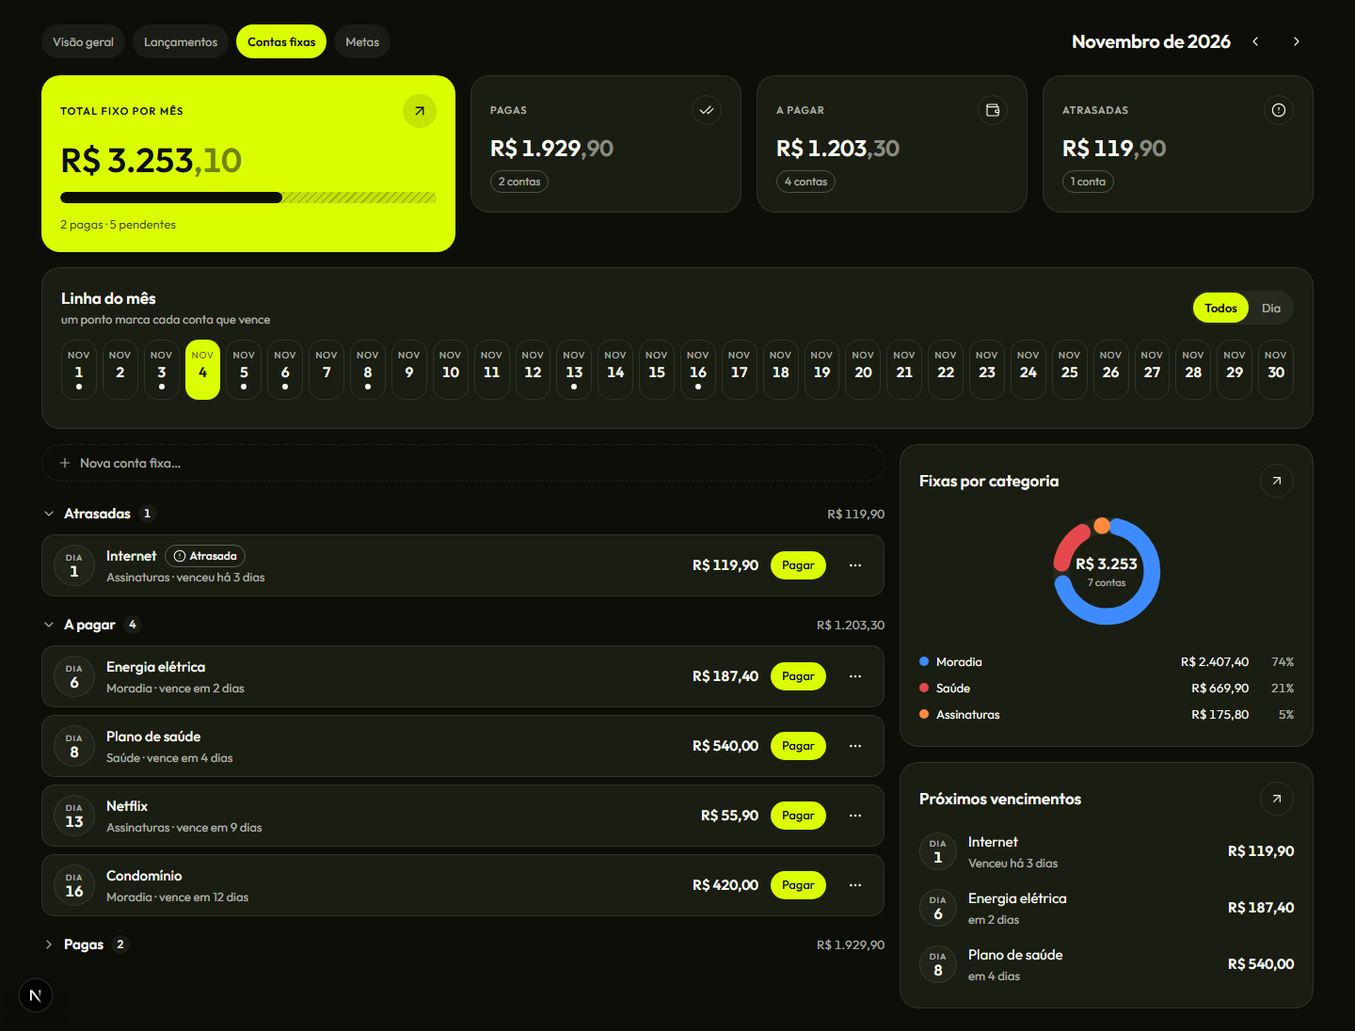
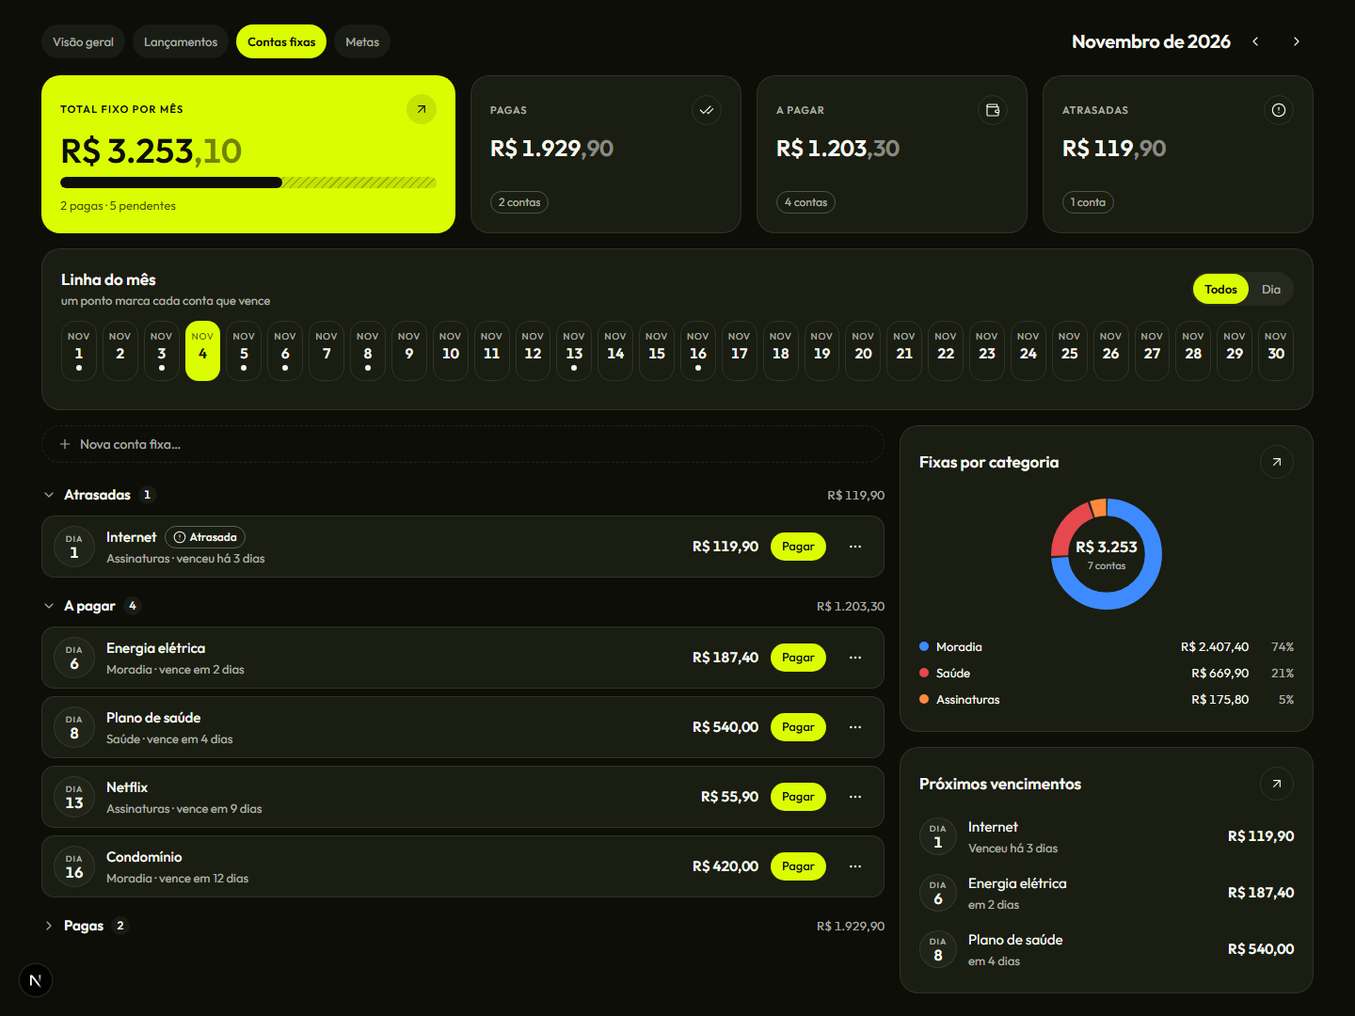
Finanças: e2e for toolbar scroll row, donut geometry, equal top cards, Nova meta pill, goal cards and account management; Ver todas for more than four wallets; short hero label on phones; refreshed screenshots

diff --git a/tests/e2e/financas-bento.spec.ts b/tests/e2e/financas-bento.spec.ts
@@ -300,7 +300,7 @@ test.describe("desktop 1440", () => {
     expect(await computed(featured, "background-color")).not.toMatch(/rgba\(0, 0, 0, 0\)/)
     await expect(featured.getByRole("progressbar")).toHaveAttribute("aria-valuenow", /\d+/)
     await expect(featured.locator("[data-sparkline]")).toHaveCount(0)
-    await expect(page.locator("[data-goal][data-done=false]")).toHaveCount(2)
+    await expect(page.locator("[data-goal][data-done=false]")).toHaveCount(3)
     // Featured Guardar: the sparkline appears (there is history now) and goes with Desfazer.
     await featured.getByRole("button", { name: "Guardar" }).click()
     await page.getByRole("dialog").getByLabel("Valor", { exact: true }).fill("100")
@@ -316,14 +316,14 @@ test.describe("desktop 1440", () => {
     await expect(done.getByRole("button", { name: "Guardar" })).toHaveCount(0)
     await expect(done.locator("[data-goal] [data-category-circle], [data-goal] svg:not([role=progressbar] svg)")).toHaveCount(0)
     // Create, edit.
-    await page.getByText("Nova meta…").click()
+    await page.getByRole("button", { name: "Nova meta" }).click()
     const dialog = page.getByRole("dialog")
     await dialog.getByLabel("Nome").fill("Moto nova")
     await dialog.getByLabel("Valor da meta").fill("9000")
     await dialog.getByRole("radio", { name: "Carro" }).click()
     await dialog.getByRole("button", { name: "Criar meta" }).click()
     const goal = page.locator("[data-goal]").filter({ hasText: "Moto nova" })
-    await expect(goal).toContainText("R$ 0,00 de R$ 9.000,00")
+    await expect(goal).toContainText(/R\$ 0,00\s*de R\$ 9\.000,00/)
     await goal.getByRole("button", { name: /^Ações de/ }).click()
     await page.getByRole("menuitem", { name: "Editar" }).click()
     await page.getByRole("dialog").getByLabel("Nome").fill("Moto 0km")
@@ -333,7 +333,7 @@ test.describe("desktop 1440", () => {
     await expect(page.getByRole("dialog")).toContainText("Faltam R$ 9.000,00 para chegar lá.")
     await page.getByRole("dialog").locator("[data-suggestion]").filter({ hasText: "R$ 500,00" }).click()
     await page.getByRole("dialog").getByRole("button", { name: "Guardar" }).click()
-    await expect(page.locator("[data-goal]").filter({ hasText: "Moto 0km" })).toContainText("R$ 500,00 de R$ 9.000,00")
+    await expect(page.locator("[data-goal]").filter({ hasText: "Moto 0km" })).toContainText(/R\$ 500,00\s*de R\$ 9\.000,00/)
   })
 
   test("Lançamentos: ONE solid toolbar card (quick add, kinds, categories with Editar, search, Filtros, Ordem)", async ({ page }) => {
@@ -346,7 +346,7 @@ test.describe("desktop 1440", () => {
     await expect(bar.getByRole("group", { name: "Filtrar por tipo" })).toBeVisible()
     const cats = bar.getByRole("group", { name: "Filtrar por categoria" })
     await expect(cats.getByRole("button", { name: /^Mercado\s*\d+$/ })).toBeVisible()
-    await expect(cats.getByRole("button", { name: "Editar categorias" })).toBeVisible()
+    await expect(bar.getByRole("button", { name: "Editar categorias" })).toBeVisible()
     // Search circle expands inline and filters.
     await bar.getByRole("button", { name: "Buscar lançamentos" }).click()
     const search = bar.getByRole("searchbox", { name: "Buscar lançamentos" })
@@ -363,7 +363,7 @@ test.describe("desktop 1440", () => {
     await page.getByRole("option", { name: "Maior valor" }).click()
     await expect(bar.getByRole("combobox", { name: "Ordenar" })).toContainText("Maior valor")
     // "Editar" opens the picker with Gerenciar / Adicionar.
-    await cats.getByRole("button", { name: "Editar categorias" }).click()
+    await bar.getByRole("button", { name: "Editar categorias" }).click()
     await expect(page.getByRole("dialog")).toContainText("Categorias")
     await expect(page.getByRole("dialog").getByRole("button", { name: /Gerenciar/ })).toBeVisible()
     await page.keyboard.press("Escape")
@@ -385,21 +385,14 @@ test.describe("desktop 1440", () => {
     await expect(headers.nth(1)).toHaveAttribute("aria-expanded", "true")
   })
 
-  test("Metas: Destacar and drag reorder change the featured goal, the order survives a reload, Nova meta fills the next cell", async ({ page }) => {
+  test("Metas: Destacar and drag reorder change the featured goal and the order survives a reload", async ({ page }) => {
     await open(page, "Metas")
     const featured = page.locator("[data-featured]")
     await expect(featured).toContainText("Viagem de fim de ano")
-    // The dashed tile sits in the Em andamento grid, right after the last goal card, and not in Alcançadas.
-    const rows = page.locator("[data-group=active] [data-group-rows]")
-    await expect(rows.locator("[data-new-goal]")).toHaveCount(1)
+    // "+ Nova meta" is the pill of the Em andamento header; there is no dashed tile in the grid or in Alcançadas.
+    await expect(page.locator("[data-group=active] [data-group-header]").locator("xpath=..").locator("[data-new-goal]")).toHaveCount(1)
+    await expect(page.locator("[data-group=active] [data-group-rows] [data-new-goal]")).toHaveCount(0)
     await expect(page.locator("[data-group=done] [data-new-goal]")).toHaveCount(0)
-    await page.waitForTimeout(800)
-    const last = (await rows.locator("[data-goal]").last().boundingBox())!
-    const tile = (await rows.locator("[data-new-goal]").boundingBox())!
-    // The next cell of the grid: to the right of the last card, or the first cell of the next row.
-    expect(tile.x >= last.x + last.width - 2 || tile.y >= last.y + last.height - 2).toBe(true)
-    expect(tile.height).toBeGreaterThanOrEqual(200)
-    expect(parseFloat(await computed(rows.locator("[data-new-goal]"), "border-top-left-radius"))).toBe(20)
     // Destacar (menu).
     const reserva = page.locator("[data-goal]").filter({ hasText: "Reserva de emergência" })
     await reserva.getByRole("button", { name: /^Ações de/ }).click()
@@ -430,6 +423,189 @@ test.describe("desktop 1440", () => {
     await page.mouse.move(first.x + 40, first.y + 40, { steps: 12 })
     await page.mouse.up()
     await expect(page.locator("[data-featured]")).not.toContainText("Entrada do apartamento")
+  })
+
+  test("Lançamentos: categories share the row of Todos | Entradas | Saídas, scroll with chevrons, Editar stays pinned", async ({ page }) => {
+    await open(page, "Lançamentos")
+    const bar = page.getByTestId("transactions-toolbar")
+    const kinds = bar.getByRole("group", { name: "Filtrar por tipo" })
+    const cats = bar.getByRole("group", { name: "Filtrar por categoria" })
+    const edit = bar.getByRole("button", { name: "Editar categorias" })
+    const [k, c, e] = [(await kinds.boundingBox())!, (await cats.boundingBox())!, (await edit.boundingBox())!]
+    expect(Math.abs(k.y + k.height / 2 - (c.y + c.height / 2))).toBeLessThan(6)
+    expect(c.x).toBeGreaterThan(k.x + k.width)
+    expect(e.x).toBeGreaterThanOrEqual(c.x + c.width - 2)
+    // No visible scrollbar: the pills row hides it.
+    expect(await cats.evaluate((el) => el.className)).toContain("no-scrollbar")
+    expect(await cats.evaluate((el) => el.scrollWidth > el.clientWidth)).toBe(true)
+    const right = bar.getByRole("button", { name: "Rolar categorias para a direita" })
+    await expect(right).toBeVisible()
+    await expect(bar.getByRole("button", { name: "Rolar categorias para a esquerda" })).toHaveCount(0)
+    await right.click()
+    await expect(bar.getByRole("button", { name: "Rolar categorias para a esquerda" })).toBeVisible()
+    expect(await cats.evaluate((el) => el.scrollLeft)).toBeGreaterThan(0)
+    // Mouse wheel scrolls it too, and the dashed pill is still in view.
+    await cats.hover()
+    await page.mouse.wheel(0, 200)
+    await expect(edit).toBeInViewport()
+    // The active pill is Lima and keeps its count.
+    const pill = cats.getByRole("button", { name: /^Mercado\s*\d+$/ })
+    await pill.scrollIntoViewIfNeeded()
+    await pill.click()
+    await expect(pill).toHaveAttribute("aria-pressed", "true")
+    expect(await computed(pill, "background-color")).not.toMatch(/rgba\(0, 0, 0, 0\)/)
+  })
+
+  test("category donut: segments add up, start at 12 o'clock, the center text fits inside the ring (Lançamentos and Contas fixas)", async ({ page }) => {
+    for (const [tab, scope] of [["Lançamentos", page.locator("aside")], ["Contas fixas", page.getByLabel("Fixas por categoria")]] as const) {
+      await open(page, tab)
+      const donut = scope.getByTestId("category-donut")
+      await expect(donut.locator("[data-segment]").first()).toBeVisible()
+      const shares = await donut.locator("[data-segment]").evaluateAll((els) => els.map((e) => Number(e.getAttribute("data-share"))))
+      expect(shares.reduce((a, b) => a + b, 0)).toBeCloseTo(1, 2)
+      expect([...shares].sort((a, b) => b - a)).toEqual(shares)
+      // The legend is in the same order (biggest first) and the ring rotates -90°.
+      const legend = await donut.locator("[data-legend]").evaluateAll((els) => els.map((e) => e.getAttribute("data-legend")))
+      expect(legend).toEqual(await donut.locator("[data-segment]").evaluateAll((els) => els.map((e) => e.getAttribute("data-segment"))))
+      expect(await donut.locator("svg").evaluate((el) => getComputedStyle(el).rotate)).toBe("-90deg")
+      // Center text inside the inner diameter (136px ring, 16px stroke ≈ 82px inside).
+      const ring = (await donut.locator("[role=img]").boundingBox())!
+      const inner = ring.width * (1 - 32 / 120)
+      for (const el of await donut.locator("[role=img] span span").all()) {
+        const box = (await el.boundingBox())!
+        expect(box.width).toBeLessThanOrEqual(inner + 1)
+        expect(box.x).toBeGreaterThanOrEqual(ring.x + (ring.width - inner) / 2 - 1)
+        expect(box.x + box.width).toBeLessThanOrEqual(ring.x + (ring.width + inner) / 2 + 1)
+      }
+    }
+  })
+
+  test("the four top cards of Contas fixas and Metas share one row and exactly one height (168px)", async ({ page }) => {
+    for (const tab of ["Contas fixas", "Metas"] as const) {
+      await open(page, tab)
+      const cards = page.locator("[data-hero-card], [data-bento-stat]")
+      await expect(cards).toHaveCount(4)
+      const boxes = await cards.evaluateAll((els) => els.map((e) => e.getBoundingClientRect()).map((r) => ({ y: Math.round(r.y), h: Math.round(r.height) })))
+      expect(new Set(boxes.map((b) => b.y)).size).toBe(1)
+      expect(new Set(boxes.map((b) => b.h))).toEqual(new Set([168]))
+    }
+  })
+
+  test("Metas: + Nova meta is a Lima pill in the Em andamento header, goal cards share the full structure", async ({ page }) => {
+    await open(page, "Metas")
+    const header = page.locator("[data-group=active] [data-group-header]")
+    const pill = page.getByRole("button", { name: "Nova meta" })
+    await expect(page.locator("[data-new-goal]")).toHaveCount(1)
+    const [h, p] = [(await header.boundingBox())!, (await pill.boundingBox())!]
+    expect(Math.abs(h.y + h.height / 2 - (p.y + p.height / 2))).toBeLessThan(6)
+    expect(p.x).toBeGreaterThan(h.x + h.width)
+    expect(Math.round(p.height)).toBe(36)
+    expect(parseFloat(await computed(pill, "border-top-left-radius"))).toBeGreaterThan(100)
+    expect(await contrast(page, await computed(pill, "color"), await computed(pill, "background-color"))).toBeGreaterThan(4.5)
+    // Featured spans half of the grid, the others a quarter; the cards of a row share one height.
+    const cards = page.locator("[data-group=active] [data-goal]")
+    await expect(cards).toHaveCount(3)
+    const [a, b, c] = await Promise.all([0, 1, 2].map(async (i) => (await cards.nth(i).boundingBox())!))
+    expect(a.width / b.width).toBeGreaterThan(1.8)
+    expect(Math.abs(b.width - c.width)).toBeLessThan(2)
+    expect(Math.abs(a.height - b.height)).toBeLessThan(2)
+    expect(Math.abs(b.height - c.height)).toBeLessThan(2)
+    for (let i = 0; i < 3; i += 1) {
+      const card = cards.nth(i)
+      await expect(card.getByRole("progressbar")).toHaveCount(1)
+      await expect(card.getByRole("button", { name: /^Ações de/ })).toBeVisible()
+      await expect(card.getByRole("button", { name: "Guardar" })).toBeVisible()
+      await expect(card.locator("[data-sparkline], [data-spark-empty]")).toHaveCount(1)
+    }
+    // No history: the flat baseline and its caption; the compact ring is 80px.
+    await expect(cards.nth(1).locator("[data-spark-empty]")).toContainText("Sem aportes ainda")
+    expect(Math.round((await cards.nth(1).getByRole("progressbar").boundingBox())!.width)).toBe(80)
+    expect(Math.round((await cards.nth(0).getByRole("progressbar").boundingBox())!.width)).toBe(120)
+  })
+
+  test("Visão geral: Contas e bancos is manageable (edit, rename, archive, reorder, delete with and without lançamentos)", async ({ page }) => {
+    await open(page)
+    const card = page.getByTestId("accounts-card")
+    await expect(card.locator("[data-wallet]")).toHaveCount(4)
+    // Edit from the wallet: tap opens the dialog with the kind and color.
+    await card.locator("[data-wallet]").filter({ hasText: "Carteira" }).locator("[data-wallet-open]").click()
+    const dialog = page.getByRole("dialog")
+    await expect(dialog).toContainText("Editar conta")
+    await dialog.getByLabel("Nome").fill("Carteira de bolso")
+    await dialog.getByRole("radiogroup", { name: "Tipo da conta" }).getByRole("radio", { name: "Carteira" }).click()
+    await dialog.getByRole("radio", { name: "Lima verso" }).click()
+    await dialog.getByRole("button", { name: "Salvar" }).click()
+    await expect(card.locator("[data-wallet]").filter({ hasText: "Carteira de bolso" })).toHaveCount(1)
+    // Manager: rename inline, archive (hidden from the wallets and the totals), show archived, reactivate.
+    await card.getByRole("button", { name: "Gerenciar" }).click()
+    const manager = page.getByTestId("account-manager")
+    const row = manager.locator("[data-manager-account]").filter({ hasText: "Carteira de bolso" })
+    await row.getByRole("button", { name: /^Ações de/ }).click()
+    await page.getByRole("menuitem", { name: "Renomear" }).click()
+    const field = manager.getByRole("textbox", { name: /Novo nome/ })
+    await field.fill("Bolso")
+    await field.press("Enter")
+    await expect(manager.locator("[data-manager-account]").filter({ hasText: "Bolso" })).toHaveCount(1)
+    await manager.locator("[data-manager-account]").filter({ hasText: "Bolso" }).getByRole("button", { name: /^Ações de/ }).click()
+    await page.getByRole("menuitem", { name: "Arquivar" }).click()
+    await expect(manager.locator("[data-manager-account]").filter({ hasText: "Bolso" })).toHaveCount(0)
+    await manager.getByRole("switch", { name: "Mostrar arquivadas" }).click()
+    await expect(manager.locator("[data-manager-account]").filter({ hasText: "Bolso" })).toContainText("Arquivada")
+    await manager.locator("[data-manager-account]").filter({ hasText: "Bolso" }).getByRole("button", { name: /^Ações de/ }).click()
+    await page.getByRole("menuitem", { name: "Reativar" }).click()
+    // Reorder with the keyboard: the last account goes up.
+    const list = manager.locator("[data-manager-account]")
+    const names = async () => list.evaluateAll((els) => els.map((e) => e.querySelector("[data-account-name]")?.textContent))
+    const before = await names()
+    await list.last().getByRole("button", { name: /^Reordenar/ }).focus()
+    await page.keyboard.press("Space")
+    await page.waitForTimeout(250)
+    await page.keyboard.press("ArrowUp")
+    await page.waitForTimeout(400)
+    await page.keyboard.press("Space")
+    await expect.poll(names).not.toEqual(before)
+    // Delete one with no lançamentos: confirm + Desfazer (the card shows four wallets; the rest are one tap away in the manager).
+    await page.keyboard.press("Escape")
+    await card.getByRole("button", { name: "Adicionar conta…" }).click()
+    await page.getByRole("dialog").getByLabel("Nome").fill("Temporária")
+    await page.getByRole("dialog").getByRole("button", { name: "Adicionar conta" }).click()
+    await expect(card.getByRole("button", { name: /Ver todas as 5 contas/ })).toBeVisible()
+    await card.getByRole("button", { name: "Gerenciar" }).click()
+    const temp = () => page.getByTestId("account-manager").locator("[data-manager-account]").filter({ hasText: "Temporária" })
+    await expect(temp()).toHaveCount(1)
+    await temp().getByRole("button", { name: /^Ações de/ }).click()
+    await page.getByRole("menuitem", { name: "Excluir" }).click()
+    await page.getByRole("alertdialog").getByRole("button", { name: "Excluir conta" }).click()
+    await expect(temp()).toHaveCount(0)
+    // The manager is modal: close it to reach the toast, undo, and look again.
+    await page.keyboard.press("Escape")
+    await undoBtn(page).click()
+    await card.getByRole("button", { name: "Gerenciar" }).click()
+    await expect(temp()).toHaveCount(1)
+    await page.keyboard.press("Escape")
+    // An account with lançamentos: options (archive recommended, move, delete everything by typing the name).
+    await card.locator("[data-wallet]").filter({ hasText: "Nubank" }).getByRole("button", { name: /^Ações de/ }).click()
+    await page.getByRole("menuitem", { name: "Excluir" }).click()
+    const sheet = page.getByRole("dialog")
+    await expect(sheet).toContainText("Arquivar (recomendado)")
+    await sheet.getByRole("radio", { name: /Excluir conta e lançamentos/ }).click()
+    const confirm = sheet.getByRole("button", { name: "Excluir conta e lançamentos" })
+    await expect(confirm).toBeDisabled()
+    await sheet.getByRole("radio", { name: /Mover os lançamentos/ }).click()
+    await sheet.getByRole("combobox").click()
+    await page.getByRole("option", { name: "Itaú" }).first().click()
+    await sheet.getByRole("button", { name: "Mover e excluir" }).click()
+    await expect(card.locator("[data-wallet]").filter({ hasText: "Nubank" })).toHaveCount(0)
+  })
+
+  test("Visão geral: category icons are 44px with the bar and percentage aligned across rows", async ({ page }) => {
+    await open(page)
+    const rows = page.getByTestId("spending-card").locator("[data-category-card]")
+    const circles = await rows.locator("[data-category-circle]").evaluateAll((els) => els.map((e) => Math.round(e.getBoundingClientRect().width)))
+    expect(new Set(circles)).toEqual(new Set([44]))
+    const bars = await rows.locator("[role=progressbar]").evaluateAll((els) => els.map((e) => [Math.round(e.getBoundingClientRect().left), Math.round(e.getBoundingClientRect().right)]))
+    expect(new Set(bars.map((b) => b[0])).size).toBe(1)
+    expect(new Set(bars.map((b) => b[1])).size).toBe(1)
   })
 
   test("dialogs on desktop: modal radius 20, Esc, Enter submits, inline message", async ({ page }) => {
@@ -572,8 +748,12 @@ test.describe("phone behaviors", () => {
     await expect(page.locator("[data-hero-card]")).toContainText("Saídas do mês")
     await expect(page.getByTestId("transaction-tiles").locator("[data-bento-stat]")).toHaveCount(2)
     const row = page.getByTestId("filter-row")
-    expect(await row.evaluate((el) => el.scrollWidth > el.clientWidth)).toBe(true)
-    expect(await row.evaluate((el) => el.className)).toContain("scroll-soft")
+    const pills = row.locator("[data-pill-row]").first()
+    expect(await pills.evaluate((el) => el.scrollWidth > el.clientWidth)).toBe(true)
+    expect(await pills.evaluate((el) => el.className)).toContain("no-scrollbar")
+    // The kinds on the first line, the categories on a second one.
+    const [kinds, cats] = [(await row.getByRole("group", { name: "Filtrar por tipo" }).boundingBox())!, (await pills.boundingBox())!]
+    expect(cats.y).toBeGreaterThan(kinds.y + kinds.height - 2)
     expect(await noPageScroll(page)).toBe(true)
     // The pill rows live in the solid header card, as in Minhas tarefas.
     expect(await row.evaluate((el) => !!el.closest("[data-testid=financas-header-block]"))).toBe(true)
@@ -595,7 +775,7 @@ test.describe("phone behaviors", () => {
   test("Contas fixas: hero, two tiles, day chips filter the list, two-line cards with swipe", async ({ page }) => {
     await open(page, "Contas fixas", true)
     await expect(page.locator("[data-hero-card] [data-hatched]")).toHaveCount(1)
-    await expect(page.getByTestId("bill-stats").locator("[data-bento-stat]")).toHaveText([/Pagas/, /Atrasadas/])
+    await expect(page.getByTestId("bill-stats").locator("[data-bento-stat]")).toHaveText([/Pagas/, /A pagar/, /Atrasadas/])
     const timeline = page.getByTestId("month-timeline")
     const chip = timeline.locator("[data-day]").first()
     expect(Math.round((await chip.boundingBox())!.width)).toBe(44)
@@ -622,19 +802,19 @@ test.describe("phone behaviors", () => {
     await expect(bill).toHaveCount(1)
   })
 
-  test("Metas: hero, two tiles, dashed pill, featured card with a 44px Lima Guardar, compact rows with a circle +, achieved collapsed", async ({ page }) => {
+  test("Metas: 2x2 top cards, + Nova meta pill, stacked full goal cards with a 44px Lima Guardar, achieved collapsed", async ({ page }) => {
     await open(page, "Metas", true)
     await expect(page.locator("[data-hero-card] [data-hatched]")).toHaveCount(1)
-    await expect(page.getByTestId("goal-stats").locator("[data-bento-stat]")).toHaveCount(2)
-    await expect(page.getByText("Nova meta…")).toBeVisible()
+    await expect(page.getByTestId("goal-stats").locator("[data-bento-stat]")).toHaveCount(3)
+    await expect(page.getByRole("button", { name: "Nova meta" })).toBeVisible()
     const featured = page.locator("[data-featured]")
     const guardar = featured.getByRole("button", { name: "Guardar" })
     expect(Math.round((await guardar.boundingBox())!.height)).toBeGreaterThanOrEqual(44)
     const rows = page.locator("[data-group=active] [data-goal]:not([data-featured])")
     await expect(rows).toHaveCount(2)
     const ring = await rows.first().getByRole("progressbar").boundingBox()
-    expect(Math.round(ring!.width)).toBe(72)
-    const plus = await rows.first().getByRole("button", { name: /^Guardar em/ }).boundingBox()
+    expect(Math.round(ring!.width)).toBe(120)
+    const plus = await rows.first().getByRole("button", { name: "Guardar" }).boundingBox()
     expect(plus!.width).toBeGreaterThanOrEqual(44)
     await expect(page.locator("[data-group=done] [data-group-header]")).toHaveAttribute("aria-expanded", "false")
     expect(await noPageScroll(page)).toBe(true)

diff --git a/src/components/finance/parts.tsx b/src/components/finance/parts.tsx
@@ -192,6 +192,7 @@ export function StatTile({ icon: Icon, label, children, helper, compact = false,
  */
 export function HeroCard({
   label,
+  shortLabel,
   value,
   size = "md",
   density = "default",
@@ -206,6 +207,8 @@ export function HeroCard({
   className,
 }: {
   label: string
+  /** The label on a half-width phone card (the accessible name stays `label`). */
+  shortLabel?: string
   value: React.ReactNode
   /** "md" 36px, "lg" 44px (the balance). */
   size?: "md" | "lg"
@@ -229,7 +232,7 @@ export function HeroCard({
   return (
     <section aria-label={label} data-hero-card data-density={density} className={cn("flex min-w-0 flex-col rounded-[20px] bg-highlight text-highlight-foreground", compact ? "gap-1.5 p-3" : dense ? "gap-2 p-5" : "gap-3 p-5", className)}>
       <div className="flex items-center justify-between gap-2">
-        <span className={cn("truncate font-semibold tracking-[0.1em] uppercase", compact ? "text-[10px] leading-4 tracking-[0.08em]" : "text-[11px] leading-4")}>{label}</span>
+        <span className={cn("truncate font-semibold tracking-[0.1em] uppercase", compact ? "text-[10px] leading-4 tracking-[0.08em]" : "text-[11px] leading-4")}>{compact ? (shortLabel ?? label) : label}</span>
         {onArrow ? (
           <button type="button" data-hero-arrow aria-label={arrowLabel ?? `Abrir ${label}`} onClick={onArrow} className={cn("relative flex shrink-0 items-center justify-center rounded-full bg-highlight-foreground/10 outline-none transition-colors duration-[400ms] ease-[cubic-bezier(0.2,0.8,0.2,1)] after:absolute after:-inset-1.5 hover:bg-highlight-foreground/20 focus-visible:ring-3 focus-visible:ring-highlight-foreground/40 motion-reduce:transition-none", compact ? "size-6" : dense ? "size-8" : "size-9")}>
             <ArrowUpRightIcon aria-hidden strokeWidth={1.75} className={compact ? "size-3" : dense ? "size-4" : "size-[18px]"} />

diff --git a/src/components/finance/overview.tsx b/src/components/finance/overview.tsx
@@ -237,6 +237,11 @@ export function AccountsBento() {
           <Wallet key={a.id} account={a} />
         ))}
       </div>
+      {f.accounts.length > 4 ? (
+        <Button type="button" variant="ghost" size="sm" className="w-fit self-center" onClick={f.openAccountManager}>
+          Ver todas as {f.accounts.length} contas
+        </Button>
+      ) : null}
       <AddPill label="Adicionar conta…" onClick={f.openNewAccount} />
     </BentoCard>
   )

diff --git a/src/components/finance/goals.tsx b/src/components/finance/goals.tsx
@@ -64,6 +64,7 @@ export function GoalsHero({ compact = false }: { compact?: boolean }) {
   return (
     <HeroCard
       label="Guardado nas metas"
+      shortLabel="Guardado"
       density={compact ? "compact" : "dense"}
       value={<MoneyText cents={saved} dimDecimals />}
       progress={{ value: pct, label: "Guardado nas metas" }}
